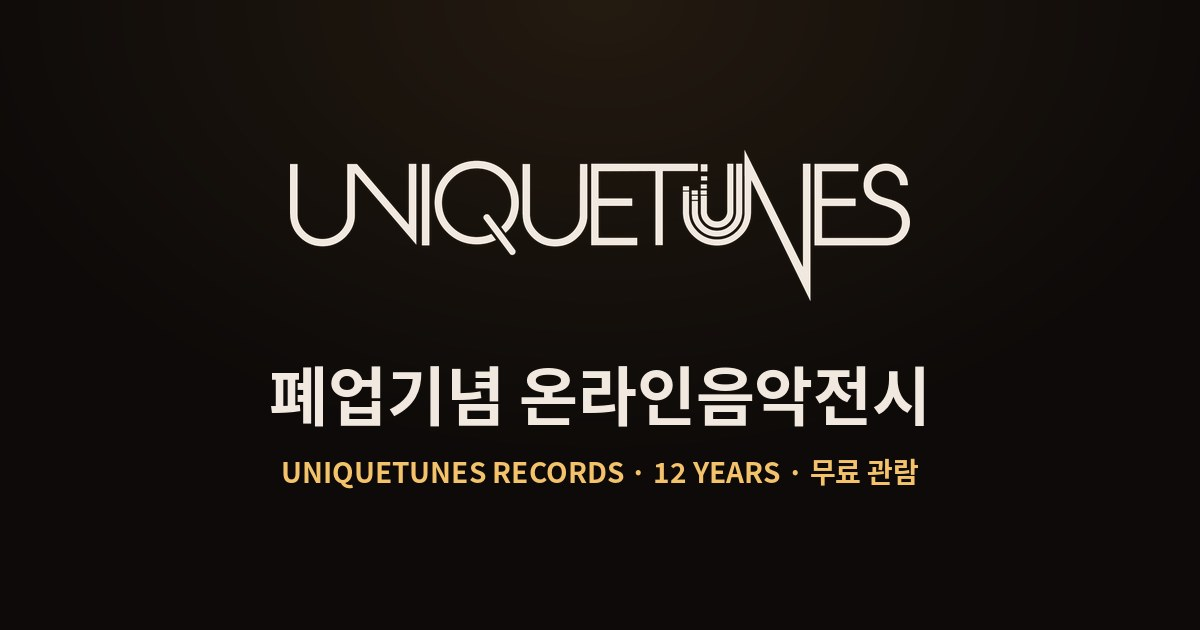
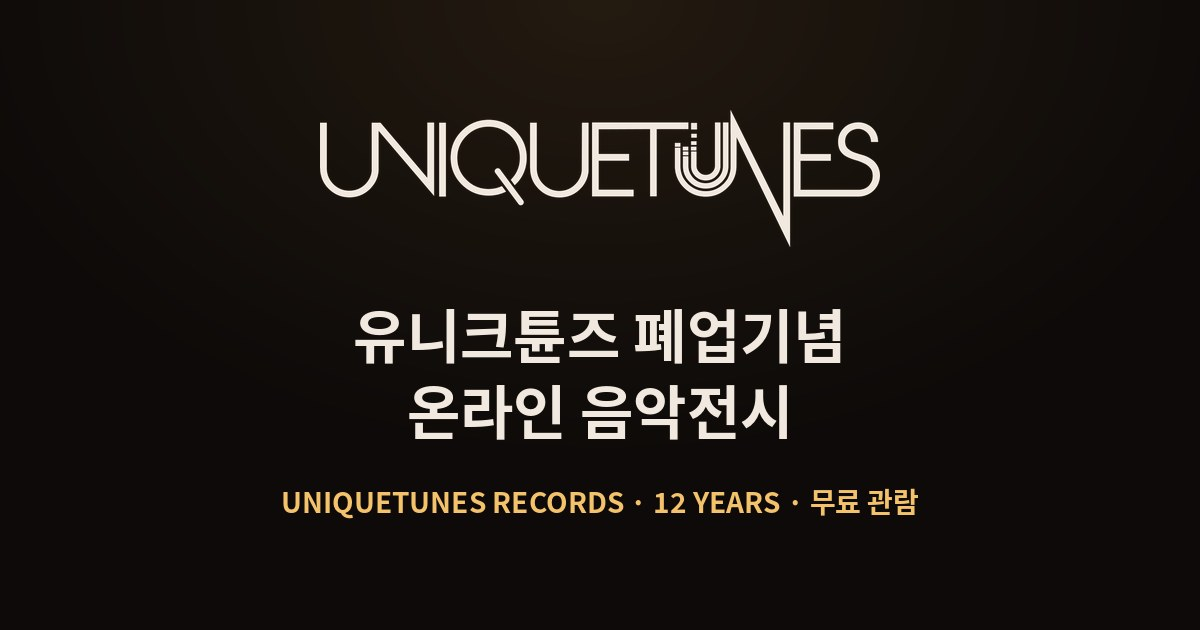
제목 두 줄: 유니크튠즈 폐업기념 / 온라인 음악전시
Claude-Session: https://claude.ai/code/session_01LLcf55Dz63rV5HkvQ73PBu

Changed region(s): [[0.2158, 0.181, 0.7708, 0.6937], [0.2158, 0.7238, 0.7708, 0.8143]]

diff --git a/index.html b/index.html
@@ -3,10 +3,10 @@
 <head>
 <meta charset="utf-8">
 <meta name="viewport" content="width=device-width, initial-scale=1, maximum-scale=1, user-scalable=no">
-<title>유니크튠즈 폐업기념 온라인음악전시</title>
-<meta name="description" content="유니크튠즈레코드 12년, 폐업기념 온라인음악전시. 무료 관람.">
+<title>유니크튠즈 폐업기념 온라인 음악전시</title>
+<meta name="description" content="유니크튠즈레코드 12년, 폐업기념 온라인 음악전시. 무료 관람.">
 <meta property="og:type" content="website">
-<meta property="og:title" content="유니크튠즈 폐업기념 온라인음악전시">
+<meta property="og:title" content="유니크튠즈 폐업기념 온라인 음악전시">
 <meta property="og:description" content="유니크튠즈레코드 12년, 무료 관람">
 <meta property="og:url" content="https://uniquetuneskim-ops.github.io/uniquetunes-exhibition/">
 <meta property="og:image" content="https://uniquetuneskim-ops.github.io/uniquetunes-exhibition/media/og.jpg">
@@ -41,14 +41,14 @@ button{font:inherit;color:inherit;cursor:pointer;border:0;background:none}
   background:radial-gradient(ellipse at 50% 0%,rgba(243,194,107,.18),transparent 60%),var(--bg)}
 .gate-inner{text-align:center;max-width:520px;width:100%;-webkit-user-select:text;user-select:text}
 .gate-logo{width:min(320px,70%);display:block;margin:0 auto 18px;opacity:.95}
-.gate-inner h1{font-family:var(--serif);font-size:clamp(34px,6vw,54px);line-height:1.2;margin:14px 0 8px}
+.gate-inner h1{white-space:pre-line;font-family:var(--serif);font-size:clamp(34px,6vw,54px);line-height:1.2;margin:14px 0 8px}
 .gate-inner .lead{color:var(--dim);margin-bottom:30px}
 .ticket{position:relative;display:flex;text-align:left;background:linear-gradient(135deg,#f6ead4,#e9d6b4);color:#2a1d15;
   border-radius:10px;overflow:hidden;box-shadow:0 30px 80px rgba(0,0,0,.6);margin:0 auto 24px;max-width:480px}
 .ticket .main{flex:1;padding:20px 22px;border-right:2px dashed rgba(42,29,21,.35)}
 .ticket .stub{width:112px;padding:20px 12px;display:flex;flex-direction:column;justify-content:space-between;align-items:center;text-align:center}
 .t-label{font-family:var(--mono);font-size:10px;letter-spacing:.2em;opacity:.6;text-transform:uppercase}
-.t-title{font-family:var(--serif);font-size:21px;font-weight:700;line-height:1.25;margin:4px 0 12px}
+.t-title{white-space:pre-line;font-family:var(--serif);font-size:21px;font-weight:700;line-height:1.25;margin:4px 0 12px}
 .t-row{display:flex;gap:20px;flex-wrap:wrap}
 .t-val{font-family:var(--mono);font-size:14px;font-weight:500}
 .t-price{font-family:var(--serif);font-size:28px;font-weight:700}
@@ -218,7 +218,7 @@ const CONFIG = {
   hostGreeting: "유니크튠즈는 이제 문을 닫지만 그동안의 작품들을 보여드릴 수 있어서 기뻐요. 이쪽으로 따라오실래요?",   // 로비에서 처음 하는 말
 
   label: "UNIQUETUNES",
-  title: "유니크튠즈 폐업기념 온라인음악전시",
+  title: "유니크튠즈 폐업기념\n온라인 음악전시",   // \n 자리에서 줄바꿈
   subtitle: "유니크튠즈레코드 12년, 무료 관람",
 
   rooms: [
@@ -278,7 +278,7 @@ const CONFIG = {
 <canvas id="minimap" class="hidden"></canvas>
 
 <div class="hud-top hidden" id="hudTop">
-  <div class="brand"><img src="media/logo.png" alt="UNIQUETUNES" style="height:14px;vertical-align:-1px;margin-right:8px;opacity:.9">폐업기념 온라인음악전시</div>
+  <div class="brand"><img src="media/logo.png" alt="UNIQUETUNES" style="height:14px;vertical-align:-1px;margin-right:8px;opacity:.9">폐업기념 온라인 음악전시</div>
   <div class="roomname" id="roomName">로비</div>
   <div class="live"><i></i><span id="liveCount">관람 중</span></div>
 </div>
@@ -532,10 +532,10 @@ function drawWorld(t){
   if(LOGO.complete && LOGO.naturalWidth){ const lw=200, lh=lw*LOGO.naturalHeight/LOGO.naturalWidth; cx.globalAlpha=.9; cx.drawImage(LOGO, 495-lw/2, 58-lh/2, lw, lh); cx.globalAlpha=1; }
   // lobby entrance text
   cx.fillStyle="rgba(241,233,223,.9)"; cx.font="700 26px 'Gowun Batang'"; cx.textAlign="center";
-  cx.fillText(C.title, 310, WALL+110);
+  C.title.split("\n").forEach((ln,i)=>cx.fillText(ln, 310, WALL+96+i*34));
   cx.fillStyle="rgba(168,154,140,.9)"; cx.font="400 13px 'IBM Plex Sans KR'";
-  cx.fillText(C.subtitle, 310, WALL+140);
-  cx.fillText("→ 오른쪽 문으로 전시실이 이어집니다", 310, WALL+168);
+  cx.fillText(C.subtitle, 310, WALL+164);
+  cx.fillText("→ 오른쪽 문으로 전시실이 이어집니다", 310, WALL+190);
   // red carpet through doors
   cx.fillStyle="rgba(125,24,36,.28)"; cx.fillRect(40,DOORY-26,WORLD_W-80,52);
 
